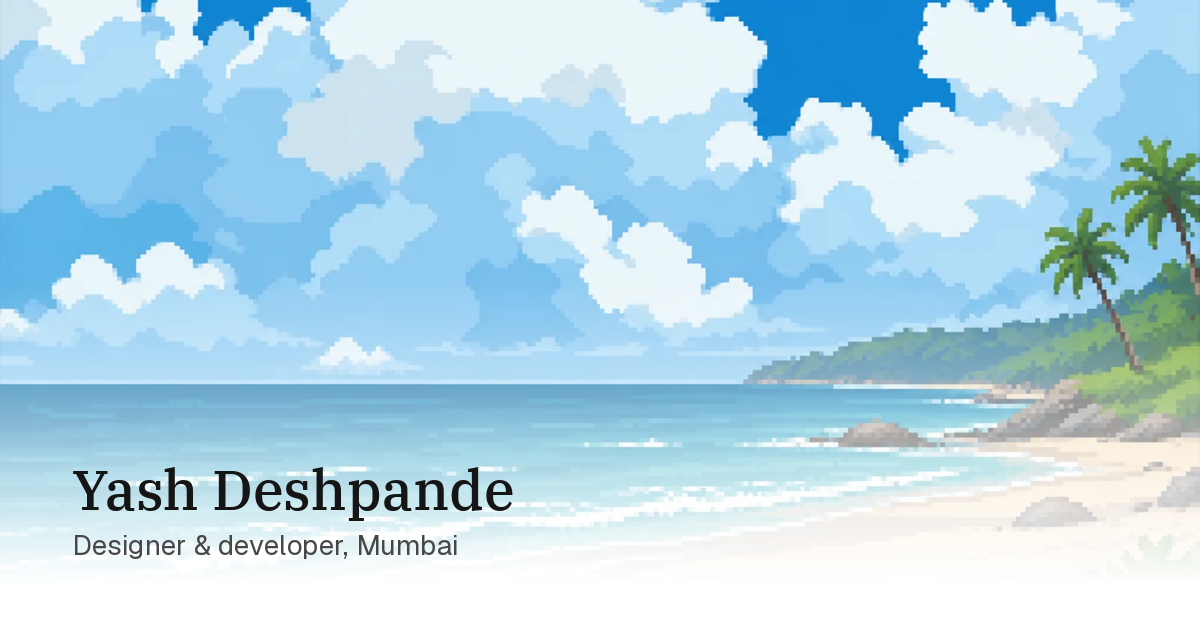
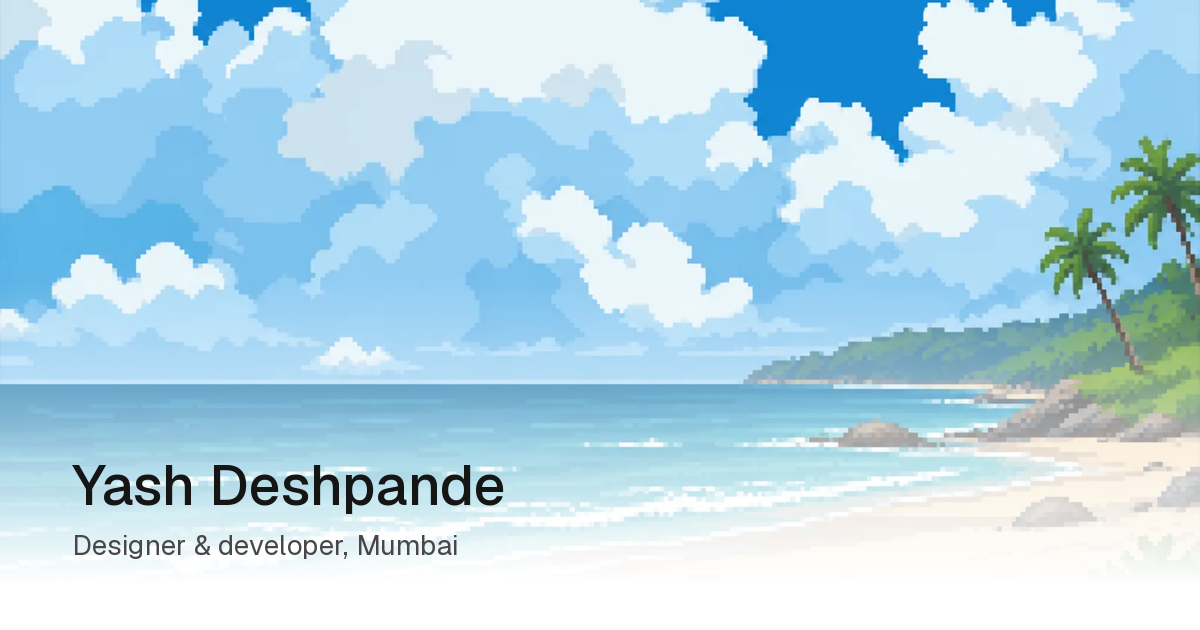
feat: page typography

Changed region(s): [[0.0617, 0.7238, 0.4317, 0.8444]]

diff --git a/src/lib/components/steps/MicrointeractionsStep.svelte b/src/lib/components/steps/MicrointeractionsStep.svelte
@@ -3,7 +3,7 @@
 	import StepCircle from './StepCircle.svelte';
 
 	const code =
-		'<div role="slider" class="track">\n  <div class="fill"\n    style="width: {pct}%" />\n  <div class="thumb"\n    style="left: {pct}%" />\n</div>';
+		'<div role="slider" class="track" data-cursor-hand="grab" data-cursor="Drag">\n  <div class="fill"\n    style="width: {pct}%" />\n  <div class="thumb"\n    style="left: {pct}%" />\n</div>';
 
 	const images = ['/work/actuallyfair.png', '/work/strive.png', '/work/sshealthcare.png'];
 
@@ -138,7 +138,7 @@
 	<div class="px-4 py-6 md:px-8 md:py-8">
 		<div class="flex items-start gap-3">
 			<StepCircle n={3} from="#fb7185" to="#e11d48" />
-			<h2 class="max-w-[30ch] font-display text-lg font-normal tracking-tight text-balance text-neutral-700 md:text-xl">
+			<h2 class="max-w-[30ch] text-lg font-normal tracking-tight text-balance text-neutral-700 md:text-xl">
 				Microinteractions
 				<span class="text-neutral-400">small details, built by hand, that make a page feel alive.</span>
 			</h2>

diff --git a/src/lib/components/steps/DevelopmentStep.svelte b/src/lib/components/steps/DevelopmentStep.svelte
@@ -186,7 +186,7 @@
 	<div class="px-4 py-6 md:px-8 md:py-8">
 		<div class="flex items-start gap-3">
 			<StepCircle n={2} from="#facc15" to="#ca8a04" />
-			<h2 class="max-w-[30ch] font-display text-lg font-normal tracking-tight text-balance text-neutral-700 md:text-xl">
+			<h2 class="max-w-[30ch] text-lg font-normal tracking-tight text-balance text-neutral-700 md:text-xl">
 				Development
 				<span class="text-neutral-400">with React, Next.js, SvelteKit and Tailwind, Shopify for ecommerce, and a CMS you can edit yourself.</span>
 			</h2>

diff --git a/src/routes/tools/+page.svelte b/src/routes/tools/+page.svelte
@@ -3,7 +3,7 @@
 </script>
 
 <div class="relative z-10 mx-auto max-w-[720px] border-x border-neutral-200 bg-white px-6 pt-28 pb-32 sm:px-10">
-	<h1 class="font-display text-2xl font-normal tracking-tight text-neutral-700">Tools I reach for</h1>
+	<h1 class="text-2xl font-normal tracking-tight text-neutral-700">Tools I reach for</h1>
 	<p class="mt-2 text-neutral-500">The everyday stack behind the projects on the front page.</p>
 	<div class="mt-10 grid grid-cols-2 border-t border-l border-neutral-200 sm:grid-cols-3">
 		{#each toolIcons as t}

diff --git a/src/lib/components/steps/DesigningStep.svelte b/src/lib/components/steps/DesigningStep.svelte
@@ -181,7 +181,7 @@
 	<div class="px-4 py-6 md:px-8 md:py-8">
 		<div class="flex items-start gap-3">
 			<StepCircle n={1} from="#38bdf8" to="#2563eb" />
-			<h2 class="max-w-[30ch] font-display text-lg font-normal tracking-tight text-balance text-neutral-700 md:text-xl">
+			<h2 class="max-w-[30ch] text-lg font-normal tracking-tight text-balance text-neutral-700 md:text-xl">
 				Designing
 				<span class="text-neutral-400">every screen in Figma first, with unlimited revisions until your first approval.</span>
 			</h2>

diff --git a/src/lib/components/steps/CommunicationStep.svelte b/src/lib/components/steps/CommunicationStep.svelte
@@ -131,7 +131,7 @@
 	<div class="px-4 py-6 md:px-8 md:py-8">
 		<div class="flex items-start gap-3">
 			<StepCircle n={4} from="#fb923c" to="#ea580c" />
-			<h2 class="max-w-[30ch] font-display text-lg font-normal tracking-tight text-balance text-neutral-700 md:text-xl">
+			<h2 class="max-w-[30ch] text-lg font-normal tracking-tight text-balance text-neutral-700 md:text-xl">
 				Communication
 				<span class="text-neutral-400">you see progress and share feedback along the way, not just at the end.</span>
 			</h2>

diff --git a/src/routes/play/+page.svelte b/src/routes/play/+page.svelte
@@ -99,7 +99,7 @@
 </script>
 
 <div class="relative z-10 mx-auto max-w-[720px] border-x border-neutral-200 bg-white px-6 pt-28 pb-32 sm:px-10">
-	<h1 class="font-display text-2xl font-normal tracking-tight text-neutral-700">Pong</h1>
+	<h1 class="text-2xl font-normal tracking-tight text-neutral-700">Pong</h1>
 	<p class="mt-2 text-neutral-500">Move your pointer over the board. First to 7.</p>
 	<div class="mt-8 flex items-center justify-between text-sm text-muted">
 		<span>You · {score.you}</span>

diff --git a/src/routes/+layout.svelte b/src/routes/+layout.svelte
@@ -111,7 +111,7 @@
 	<link rel="preconnect" href="https://fonts.googleapis.com" />
 	<link rel="preconnect" href="https://fonts.gstatic.com" crossorigin="anonymous" />
 	<link
-		href="https://fonts.googleapis.com/css2?family=Geist:wght@400;500;600&family=IBM+Plex+Serif:ital,wght@0,400;0,500;1,400&display=swap"
+		href="https://fonts.googleapis.com/css2?family=Geist:wght@400;500;600&display=swap"
 		rel="stylesheet"
 	/>
 </svelte:head>

diff --git a/src/routes/how-i-work/+page.svelte b/src/routes/how-i-work/+page.svelte
@@ -7,7 +7,7 @@
 
 <div class="relative z-10 mx-auto max-w-[1100px] border-x border-neutral-200 bg-white pt-24">
 	<div class="px-4 py-8 md:px-8 md:py-12">
-		<h1 class="max-w-[40ch] font-display text-2xl font-normal tracking-tight text-neutral-700">
+		<h1 class="max-w-[40ch] text-2xl font-normal tracking-tight text-neutral-700">
 			How I work
 		</h1>
 		<p class="mt-2 max-w-[46ch] text-neutral-500">

diff --git a/src/routes/+page.svelte b/src/routes/+page.svelte
@@ -39,7 +39,7 @@
 >
 	<section id="intro" class="pg-intro relative">
 		<AboutMe />
-		<h1 class="{REVEAL} font-display text-[16px] font-medium leading-normal" style="--d: 60ms">
+		<h1 class="{REVEAL} text-[16px] font-medium leading-normal" style="--d: 60ms">
 			Hey, I'm Yash Deshpande
 		</h1>
 		<p class={REVEAL} style="--d: 100ms">a designer & developer based in Mumbai</p>

diff --git a/src/routes/layout.css b/src/routes/layout.css
@@ -16,7 +16,6 @@
 	--color-rule: #ececec;
 	--color-inspect: #e83ad8;
 	--font-sans: 'Geist', system-ui, sans-serif;
-	--font-display: 'IBM Plex Serif', Georgia, serif;
 	--ease-mn: cubic-bezier(0.22, 1, 0.36, 1);
 	--ease-spring: cubic-bezier(0.34, 1.56, 0.64, 1);
 	--animate-tools: tools-scroll 34s linear infinite;

diff --git a/src/lib/components/SiteNav.svelte b/src/lib/components/SiteNav.svelte
@@ -18,6 +18,10 @@
 		const measure = () => {
 			raf = 0;
 			scrolled = scrollY > 24;
+			if (location.pathname !== '/') {
+				active = '';
+				return;
+			}
 			const trigger = innerHeight * 0.4;
 			let current = 'intro';
 			for (const s of SECTIONS) {
